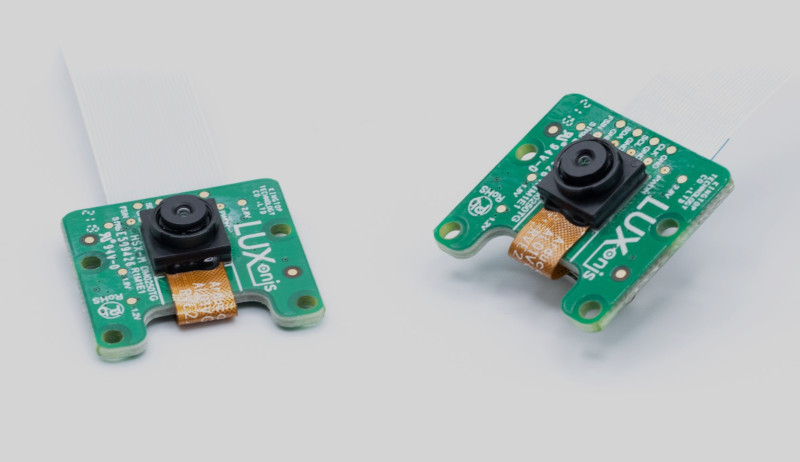
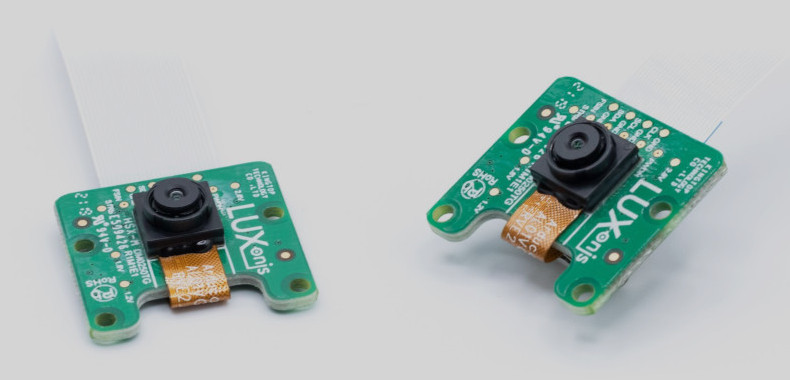
Updated some images and added sensor docs to OAK FFC camera modules

Changed region(s): [[0.5165, 0.2026, 0.9418, 0.9263], [0.0608, 0.3763, 0.4253, 0.9263]]

diff --git a/docs/source/pages/BG0249.rst b/docs/source/pages/BG0249.rst
@@ -14,6 +14,11 @@ The **OAK-FFC-IMX378** is a carrier board for the Arducam PY011 IMX378 camera mo
 :ref:`OAK-FFC-3P`, :ref:`OAK-FFC-4P`, and :ref:`DepthAI RPi HAT <DepthAI RPi HAT Baseboard>` baseboards. A 26-pin FFC is used
 to carry 5V power, 4-lane MIPI, I2C, and other control signals between the this camera module and the controller baseboard.
 
+Hardware specifications
+***********************
+
+.. include:: /pages/includes/imx378.rst
+
 Board Layout and Dimensions
 ***************************
 

diff --git a/docs/source/pages/includes/ov9282.rst b/docs/source/pages/includes/ov9282.rst
@@ -1,0 +1,21 @@
+.. list-table:: Sensor specifications
+   :header-rows: 1
+
+   * - Camera Specs
+     - Stereo camera
+   * - Sensor
+     - OV9282
+   * - DFOV / HFOV / VFOV
+     - 82° / 72° / 50°
+   * - Resolution
+     - 1MP (1280x800)
+   * - Focus
+     - Fixed-Focus: 19.6cm - ∞
+   * - Max Framerate
+     - 120 FPS
+   * - F-number
+     - 2.2
+   * - Lens size
+     - 1/4 inch
+   * - Pixel size
+     - 3µm x 3µm

diff --git a/docs/source/pages/BG0250TG.rst b/docs/source/pages/BG0250TG.rst
@@ -16,6 +16,11 @@ to carry 5V power, 2-lane MIPI, I2C, and other control signals between ththis ca
 
 People typically use a pair (2) of OAK-FFC-OV9282 to create a stereo camera pair. We previously used Sunny TG161B or AN01V32 OV9282 camera module.
 
+Hardware specifications
+***********************
+
+.. include:: /pages/includes/ov9282.rst
+
 Board Layout and Dimensions
 ***************************
 
